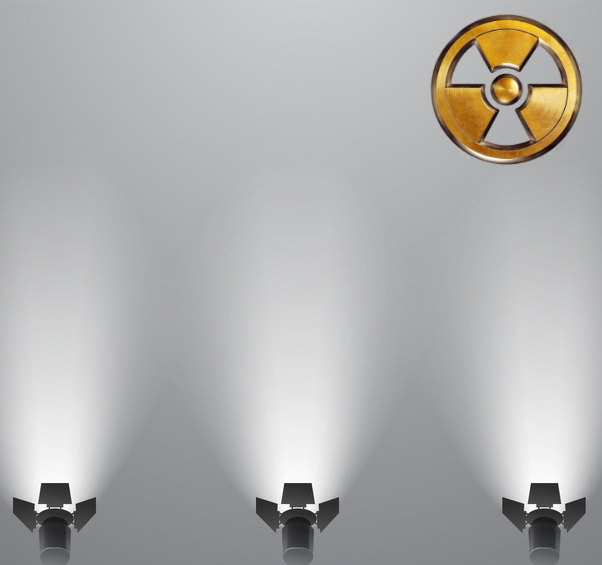
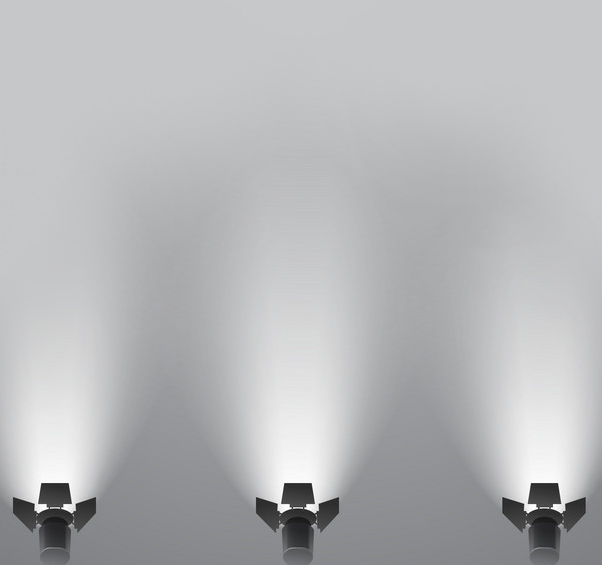
Update

Changed region(s): [[0.7176, 0.0, 1.0, 0.4212], [0.0, 0.0, 0.1196, 0.4212]]

diff --git a/themes/Blue_Tech/css/maintable.php b/themes/Blue_Tech/css/maintable.php
@@ -6,16 +6,16 @@ global $choose, $filename1;
 echo "/* Fly Kit Main Design Style Sheet */\n"; 
 echo "/* ".$theme_name."/css/maintable.php */\n\n"; 
 
-$filename1 = 'black_glass_once_piece_header.png';
+$filename1 = 'header_background_final.png';
     
-define('LOGO_BACKGROUND', '"../../../themes/'.$theme_name.'/backgrounds/'.$filename1.'"'); 
+define('LOGO_BACKGROUND', '"../../../themes/'.$theme_name.'/images/hdr/'.$filename1.'"'); 
 define('CONTAIN', 'background-repeat: no-repeat;
                     background-position: center center; 
 				     width 100%;
 					  height 115px;
 			         z-index: 780;
 				    background-size: cover;					                  
-			       opacity: 1.0;');
+			       opacity: 0.9;');
 ######################################################################################################
 //USE background-position: CENTER CENTER; to squuze top to bottom 
 define('BOOKMARKS_BACKGROUND', '"../../../themes/'.$theme_name.'/backgrounds/blackbar.png"'); 
